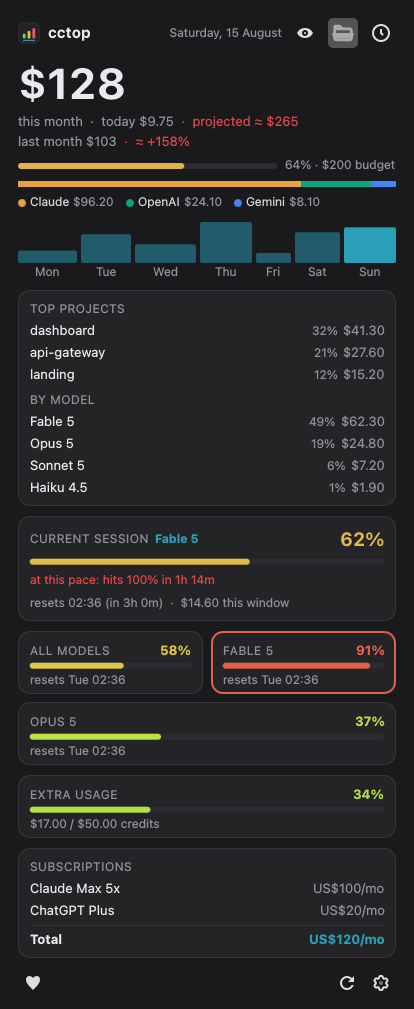
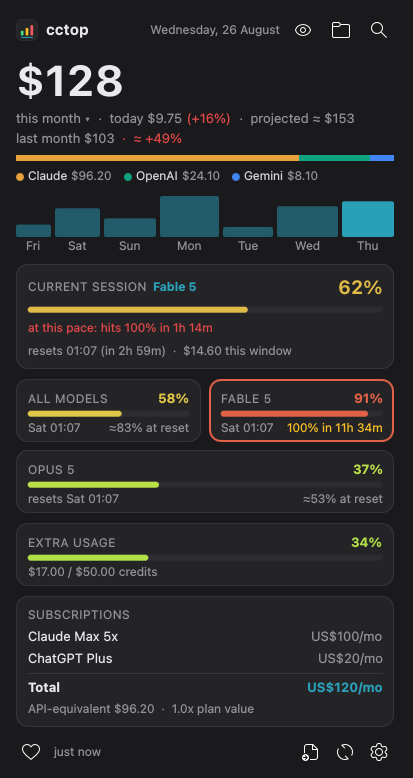
Update README and screenshot for 1.5.0
The half-width weekly cards drop the "resets" word so the time fits.

diff --git a/contents/ui/main.qml b/contents/ui/main.qml
@@ -1100,9 +1100,11 @@ PlasmoidItem {
                     }
 
                     Rectangle {
+                        id: weeklyCard
                         Layout.fillWidth: true
                         // an odd last card spans the row instead of sitting half width
                         Layout.columnSpan: (index === weeklyRep.count - 1 && weeklyRep.count % 2 === 1) ? 2 : 1
+                        readonly property bool wide: Layout.columnSpan === 2
                         radius: 12
                         color: root.surfaceColor
                         // the limit the API marks active is the one biting now
@@ -1149,8 +1151,10 @@ PlasmoidItem {
                             RowLayout {
                                 Layout.fillWidth: true
                                 spacing: Kirigami.Units.smallSpacing
+                                // half-width cards have no room for the "resets" word
                                 PC3.Label {
-                                    text: root.tr("resets") + " " + new Date(modelData.data.resets_at).toLocaleString(Qt.locale(root.localeNames[root.lang] || "en_US"), "ddd HH:mm")
+                                    text: (weeklyCard.wide ? root.tr("resets") + " " : "")
+                                          + new Date(modelData.data.resets_at).toLocaleString(Qt.locale(root.localeNames[root.lang] || "en_US"), "ddd HH:mm")
                                     color: root.mutedColor
                                     font.pixelSize: fullRep.microSize
                                     elide: Text.ElideRight

diff --git a/README.md b/README.md
@@ -15,7 +15,9 @@ is local: no accounts, no API keys, no telemetry.
 
 - **Panel indicator** — live Claude session usage % (green → yellow → red),
   today's spend or subscriptions total (configurable)
-- **Monthly spend** per provider with stacked bar and legend
+- **Spend** per provider with stacked bar and legend; click the big number to
+  switch its window (this month, today, last 7 days, last 30 days). Today shows
+  the delta against yesterday
 - **End-of-month projection** — run rate from the month so far, tinted by how
   it compares to your budget
 - **Last month comparison** — previous month total and the projected delta
@@ -26,8 +28,9 @@ is local: no accounts, no API keys, no telemetry.
   all-models limit and one card per model-scoped limit, straight from the same
   endpoint the Claude Code `/usage` command uses (via the OAuth token the CLI
   already stores locally). The limit that is currently biting is outlined
-- **Pace warning** — when the current burn rate hits 100% before the 5h window
-  resets, the session card says how long you have left
+- **Pace warning** — when the current burn rate hits 100% before the window
+  resets, the session and weekly cards say how long you have left; otherwise
+  the weekly cards show where the usage lands at the reset
 - **Extra usage credits** — usage credits card when the account has them on
 - **Recent sessions** — last sessions with model and cost
 - **Subscription auto-detection** — your Claude plan (Pro / Max 5x / Max 20x)
@@ -35,11 +38,16 @@ is local: no accounts, no API keys, no telemetry.
   from local CLI files
 - **Extra subscriptions** — add any other fixed AI cost in the settings, one
   per line (`Cursor Pro: 20`)
-- **Monthly budget** — optional limit with progress bar and a notification
-  when the spend crosses it
+- **Plan value** — this month's Claude usage at API rates next to what the
+  plan costs
+- **Monthly budget** — optional limit with progress bar and notifications at
+  80% and 100%
 - **Privacy mode** — the eye button masks every money value (panel included)
-- **Desktop notification** when the session or the weekly limits cross a
-  configurable threshold
+- **Desktop notifications** when the session or the weekly limits cross a
+  configurable threshold, and when such a window resets
+- **CSV export** of the last 30 days per day and model (footer button)
+- **Morning summary** — optional systemd timer with yesterday's spend, the
+  7-day total and the weekly limit (see below)
 - **Scroll on the panel widget** to cycle session % / weekly % / spend today /
   subscriptions / reset countdown
 - **Follow the system theme** — optional, for light Plasma desktops
